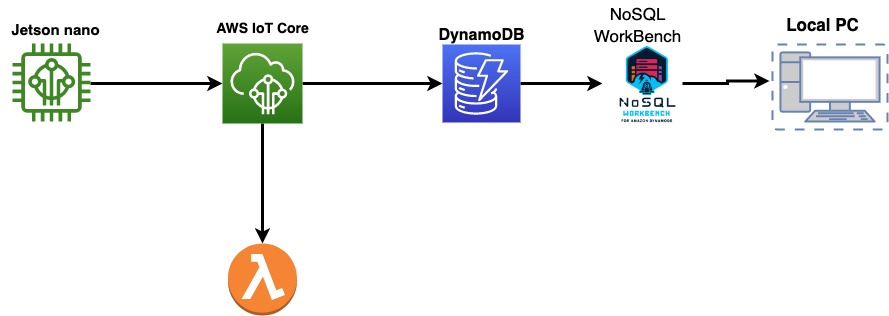
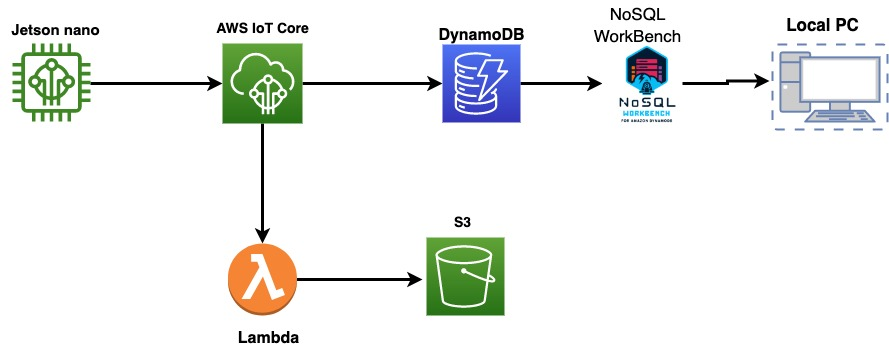
update

Changed region(s): [[0.0, 0.0, 1.0, 0.4272], [0.243, 0.5981, 0.5771, 1.0]]

diff --git a/S3/create_bucket.py b/S3/create_bucket.py
@@ -1,0 +1,26 @@
+import boto3
+from common import BUCKET_NAME, REGION, ACCESS_KEY, SECRET_KEY
+
+
+def add_access_permission():
+    client = boto3.client('s3',
+                      region_name=REGION,
+                      aws_access_key_id =ACCESS_KEY,
+                      aws_secret_access_key =SECRET_KEY)
+    return client
+
+def put_versioning(client):
+    client.put_bucket_versioning(
+        Bucket=BUCKET_NAME,
+        VersioningConfiguration={'Status': 'Enabled'})
+    client.get_bucket_versioning(Bucket=BUCKET_NAME)
+
+def create_bucket():
+    client = add_access_permission()   
+    client.create_bucket(Bucket=BUCKET_NAME,
+                  CreateBucketConfiguration={'LocationConstraint': REGION})
+    print("create s3 bucket {}".format(BUCKET_NAME))
+    put_versioning(client)
+if __name__=="__main__":
+    create_bucket()
+    

diff --git a/IoTCore/actions/Lambda/function.py b/IoTCore/actions/Lambda/function.py
@@ -1,0 +1,25 @@
+import json
+import time
+import boto3
+
+BUCKET_NAME="iotcoremeteo"
+REGION='ap-northeast-1'
+ACCESS_KEY='AKIA6ILPQ7NCMFQQDWHZ'
+SECRET_KEY='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'
+
+def add_access_permission():
+    client = boto3.client('s3',
+                      region_name=REGION,
+                      aws_access_key_id =ACCESS_KEY,
+                      aws_secret_access_key =SECRET_KEY)
+    return client
+    
+s3 = add_access_permission()
+def lambda_handler(event, context):
+    file_contents = {}
+    file_contents["humidity"]=int(event["humidity"])
+    file_contents["barometer"]=int(event["barometer"])
+    key = str(event["sample_time"])+'.json'
+    response = s3.put_object(Body=json.dumps(file_contents), Bucket=BUCKET_NAME, Key=key)
+    time.sleep(1)
+    return response

diff --git a/Lambda/function.py b/Lambda/function.py
@@ -1,0 +1,25 @@
+import json
+import time
+import boto3
+
+BUCKET_NAME="iotcoremeteo"
+REGION='ap-northeast-1'
+ACCESS_KEY='****************'
+SECRET_KEY='****************'
+
+def add_access_permission():
+    client = boto3.client('s3',
+                      region_name=REGION,
+                      aws_access_key_id =ACCESS_KEY,
+                      aws_secret_access_key =SECRET_KEY)
+    return client
+    
+s3 = add_access_permission()
+def lambda_handler(event, context):
+    file_contents = {}
+    file_contents["humidity"]=int(event["humidity"])
+    file_contents["barometer"]=int(event["barometer"])
+    key = str(event["sample_time"])+'.json'
+    response = s3.put_object(Body=json.dumps(file_contents), Bucket=BUCKET_NAME, Key=key)
+    time.sleep(1)
+    return response

diff --git a/S3/delete_bucket.py b/S3/delete_bucket.py
@@ -1,0 +1,16 @@
+import boto3
+import os
+from create_bucket import add_access_permission
+from common import BUCKET_NAME, REGION, ACCESS_KEY, SECRET_KEY
+
+def bucket_empty():
+    os.system("aws s3 rm s3://{} --recursive".format(BUCKET_NAME))
+
+def delete_bucket():
+    bucket_empty()
+    client = add_access_permission()
+    client.delete_bucket(Bucket=BUCKET_NAME)
+    print("delete s3 bucket ", BUCKET_NAME)
+
+if __name__=="__main__":
+    delete_bucket()

diff --git a/S3/common.py b/S3/common.py
@@ -1,0 +1,8 @@
+# aws configure get aws_access_key_id
+# aws configure get aws_secret_access_key
+
+BUCKET_NAME="iotcoremeteo"
+REGION='ap-northeast-1'
+ACCESS_KEY='AKIA6ILPQ7NCMFQQDWHZ'
+SECRET_KEY='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'
+

diff --git a/Jetson/testMQTT.py b/Jetson/testMQTT.py
@@ -7,7 +7,7 @@ import datetime
 
 
 ROOTDIR='../keys'
-THING_NAME = 'testMQTT'
+THING_NAME = 'TestMQTT'
 TOPIC_NAME = 'device/22/data'
 
 def create_msg(count):
